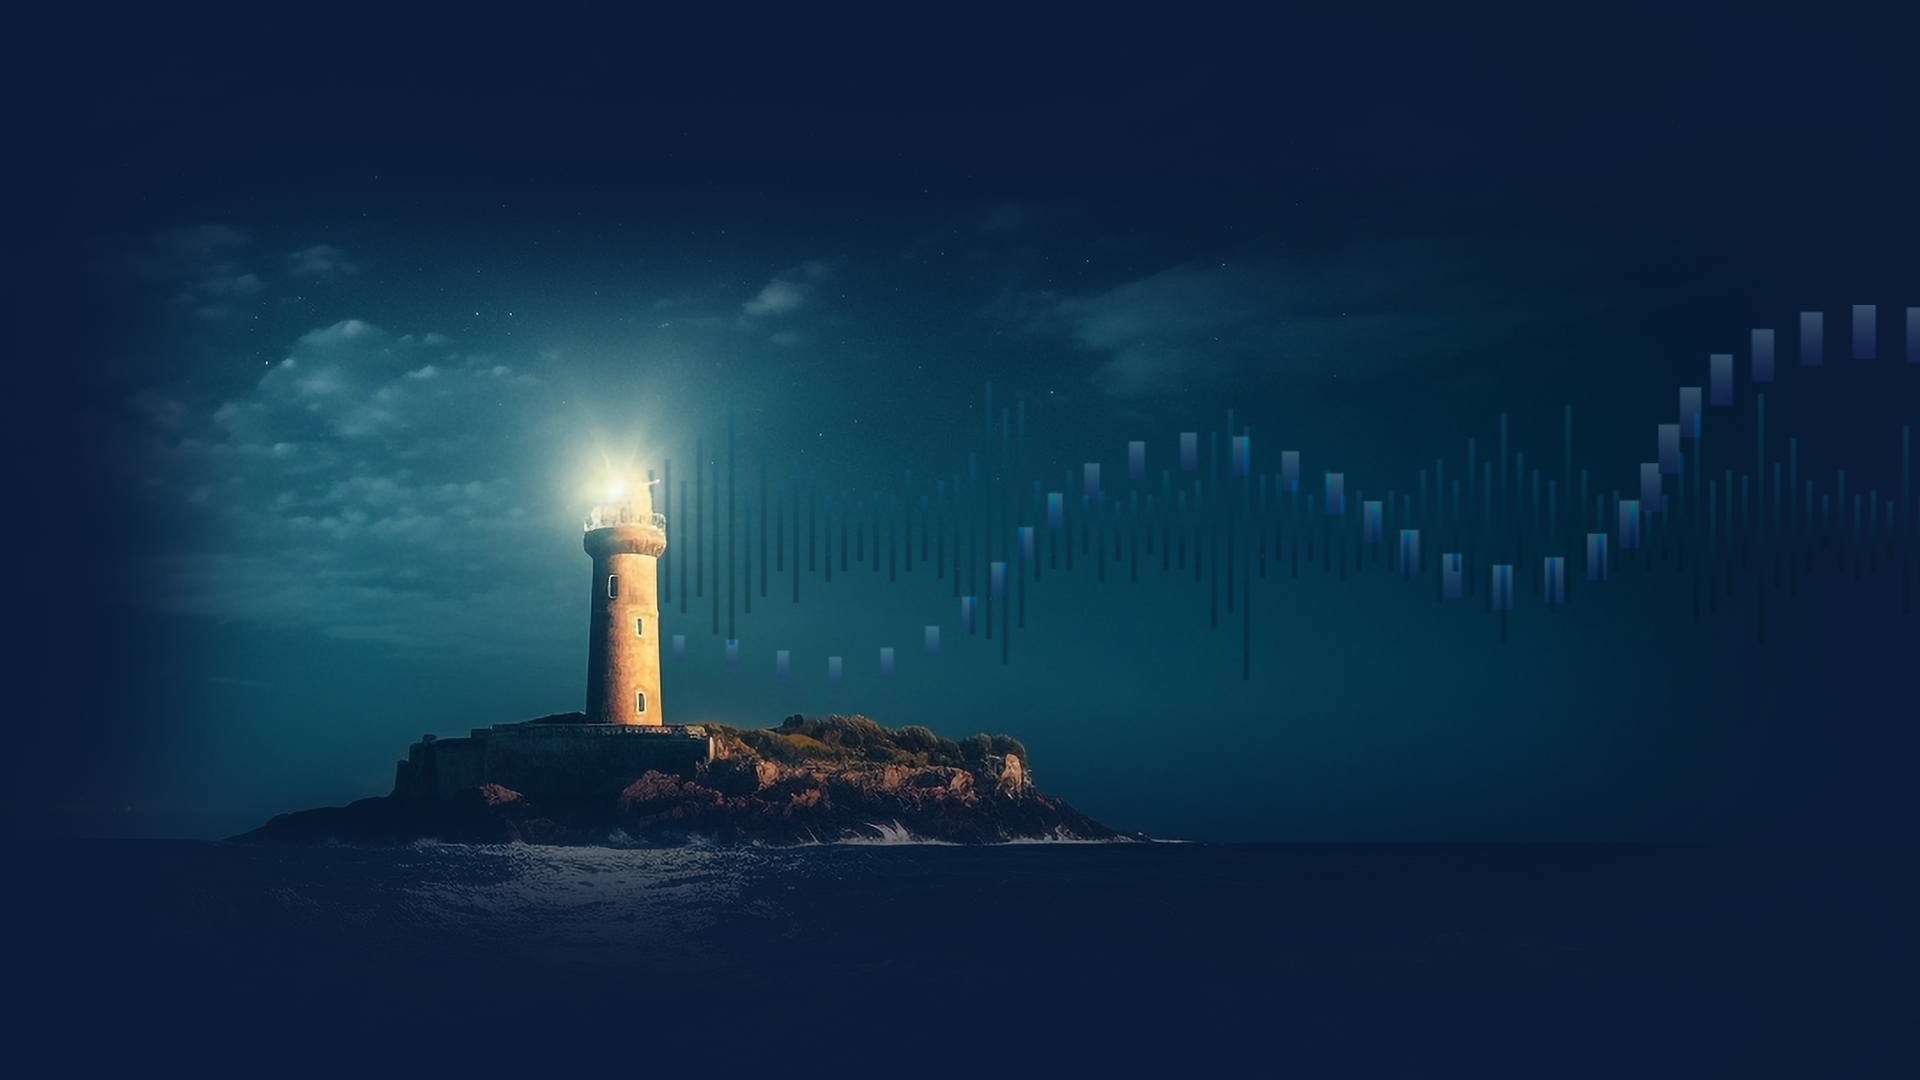
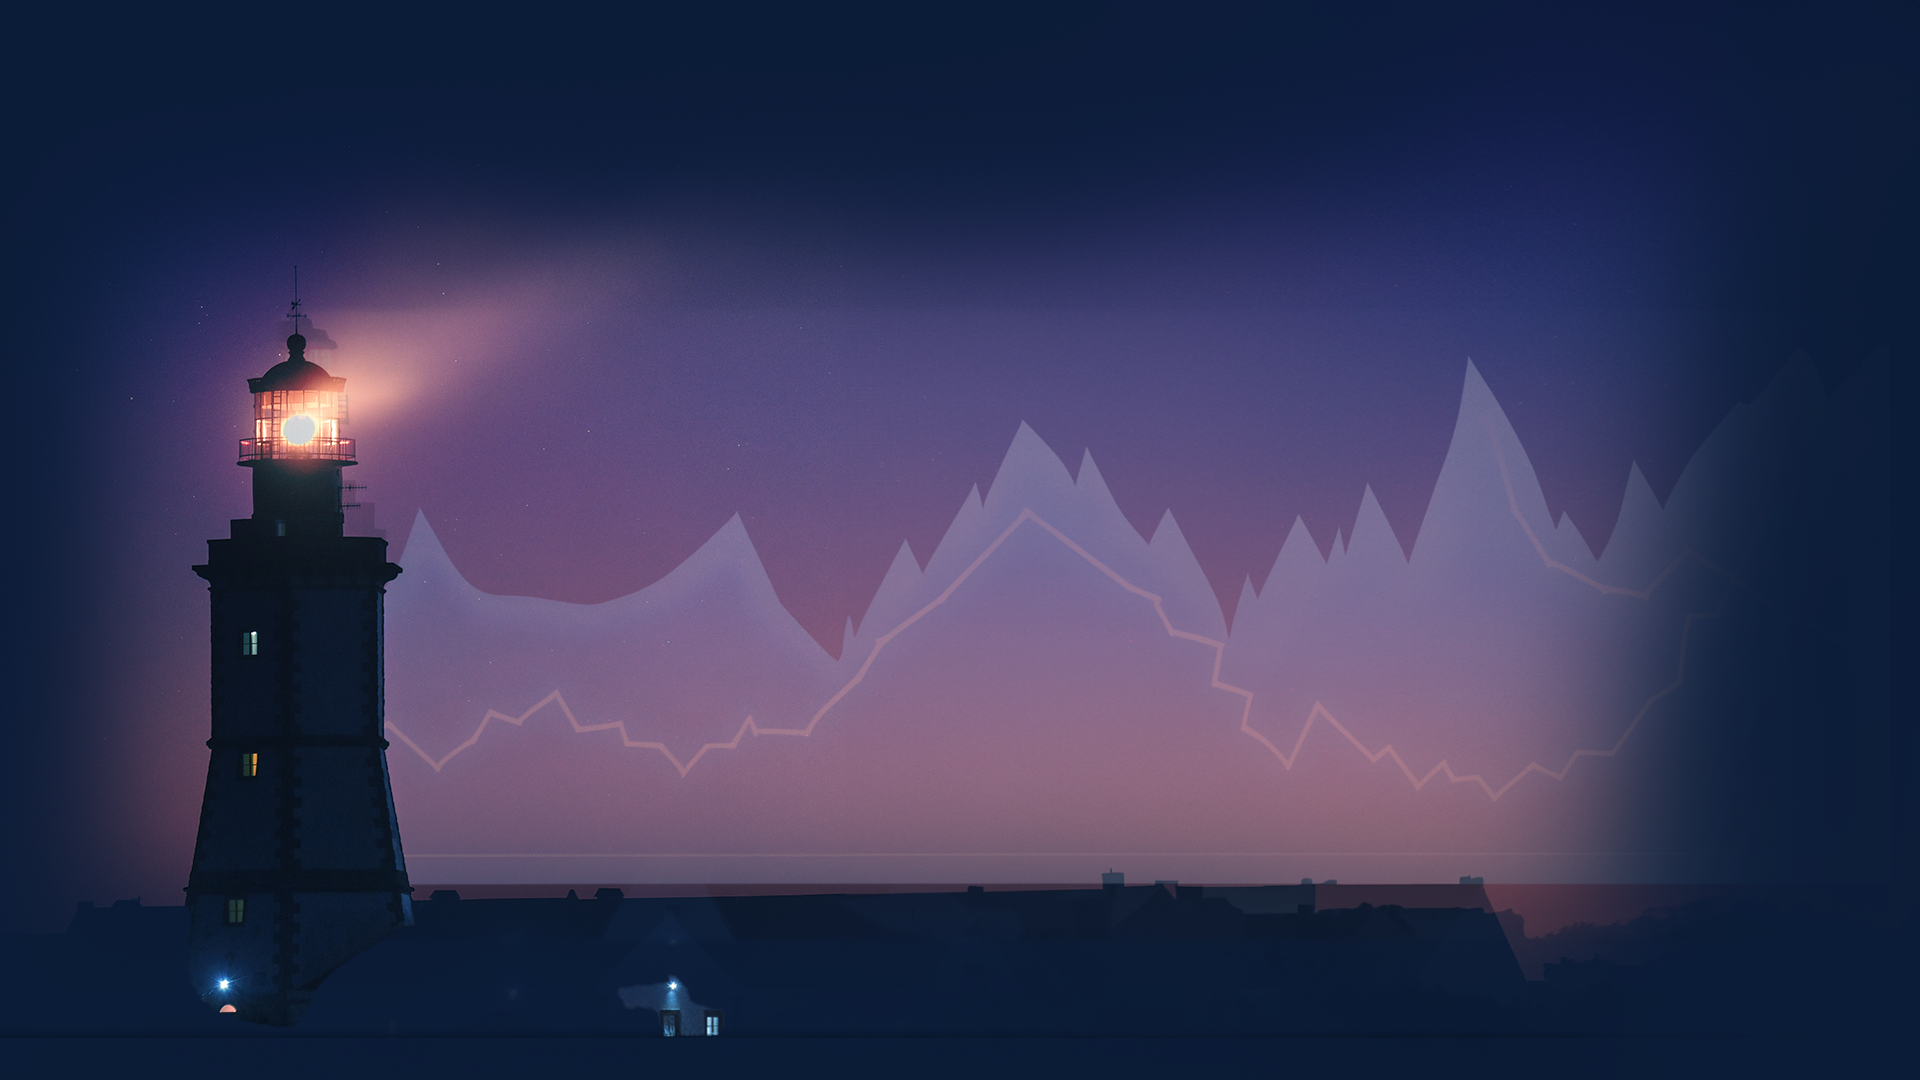
added carousel to the landing page

diff --git a/lighthouse-front/src/components/LighthousePhilosophySession/index.tsx b/lighthouse-front/src/components/LighthousePhilosophySession/index.tsx
@@ -1,23 +1,164 @@
-import React from "react";
-import Button from "../Button/index";
-import { Wrapper, Filter, CardContainer, DescriptionContainer } from "./styles";
+import React, { useEffect, useState } from "react";
+import "react-responsive-carousel/lib/styles/carousel.min.css";
+import { Carousel } from "react-responsive-carousel";
+import {
+  CardContainer0,
+  CardContainer1,
+  CardContainer1Description,
+  CardContainer1Title,
+  CardContainer1TitleLighthouse,
+  CardContainer1TitleSub,
+  CardContainer2,
+  CardContainer2SubDescription,
+  CardContainer2SubTitle,
+  CardContainer2Title,
+  CardContainer2TitleSub,
+  CardContainer3,
+  CardContainer3SubDescription,
+  CardContainer3Title,
+  CardContainer3TitleSub,
+  DescriptionContainer0,
+  LightHouseSpan,
+  Wrapper,
+} from "./styles";
+import Button from "../Button";
 
-const LighthousePhilosophySession = () => (
-  <Wrapper>
-    <Filter />
+export default function MyCarousel() {
+  const [selectedIndex, setSelectedIndex] = useState(0);
 
-    <CardContainer>
-      <DescriptionContainer>
-        Inspirado em um Farol, LIGHTHOUSE foi desenvolvida sobre uma sólida base
-        de conhecimentos. Sobre esta, um sofisticado sistema de orientação,
-        fundamentado em algorítmos, permite aos investidores alcançarem seus
-        objetivos de rentabilidade com simplicidade segurança.
-      </DescriptionContainer>
-      <Button type="secondary" height={66} width={"35%"} minWidth={540}>
-        CONHEÇA NOSSA FILOSOFIA{" "}
-      </Button>
-    </CardContainer>
-  </Wrapper>
-);
+  const next = () => {
+    if (selectedIndex === 3) {
+      setSelectedIndex(0);
+    } else setSelectedIndex(selectedIndex + 1);
+  };
 
-export default LighthousePhilosophySession;
+  const prev = () => {
+    if (selectedIndex > 0) {
+      setSelectedIndex(selectedIndex - 1);
+    }
+  };
+
+  return (
+    <Carousel
+      showArrows={false}
+      selectedItem={selectedIndex}
+      showThumbs={false}
+      showStatus={false}
+      showIndicators={false}
+      swipeable={false}
+      dynamicHeight={true}
+    >
+      <Wrapper containerIndex={0}>
+        <CardContainer0>
+          <DescriptionContainer0>
+            Inspirado em um Farol, <LightHouseSpan>LIGHTHOUSE</LightHouseSpan>{" "}
+            foi desenvolvida sobre uma sólida base de conhecimentos. Sobre esta,
+            um sofisticado sistema de orientação, fundamentado em algorítmos,
+            permite aos investidores alcançarem seus objetivos de rentabilidade
+            com simplicidade segurança.
+          </DescriptionContainer0>
+          <Button
+            onClick={next}
+            type="secondary"
+            height={66}
+            width={"35%"}
+            minWidth={300}
+          >
+            CONHEÇA NOSSA FILOSOFIA
+          </Button>
+        </CardContainer0>
+      </Wrapper>
+      <Wrapper containerIndex={1}>
+        <CardContainer1>
+          <CardContainer1Title>PROTEGENDO SEU PATRIMÔNIO</CardContainer1Title>
+          <CardContainer1TitleSub>
+            Proteção é o fundamento do método
+          </CardContainer1TitleSub>
+          <CardContainer1TitleLighthouse>
+            LIGHTHOUSE
+          </CardContainer1TitleLighthouse>
+          <CardContainer1Description>
+            A harmoniosa análise das regras tributárias e a combinação de
+            jurisdição dos ativos formarão o alicerce do seu portfólio de
+            investimentos, protegendo seu patrimônio de fatores econômicos e
+            políticos da economia brasileira e de tributações excessivas.
+          </CardContainer1Description>
+          <Button
+            onClick={next}
+            type="secondary"
+            height={66}
+            width={"35%"}
+            minWidth={300}
+          >
+            Next
+          </Button>
+        </CardContainer1>
+      </Wrapper>
+      <Wrapper containerIndex={2}>
+        <CardContainer2>
+          <CardContainer2Title>ESCLARECENDO SUAS DECISÕES</CardContainer2Title>
+          <CardContainer2TitleSub>
+            Uma metodologia comprovada nas escolhas de ativos
+            <br />
+            EM DIVERSOS CENÁRIOS ECONÔMICOS
+          </CardContainer2TitleSub>
+          <CardContainer2SubTitle>
+            ANÁLISE MACROECONÔMICA
+          </CardContainer2SubTitle>
+          <CardContainer2SubDescription>
+            Projeção de cenários macro econômicos , onde fatores como inflação e
+            crescimento são ponderados para antecipar as potenciais direções de
+            mercado
+          </CardContainer2SubDescription>
+          <CardContainer2SubTitle>ANÁLISE QUANTITATIVA</CardContainer2SubTitle>
+          <CardContainer2SubDescription>
+            Escolhas de ativos que historicamente tem performance superior nos
+            cenários projetados
+          </CardContainer2SubDescription>
+          <div>
+            <button onClick={prev}>prev</button>
+            <button onClick={next}>next</button>
+          </div>
+        </CardContainer2>
+      </Wrapper>
+      <Wrapper containerIndex={3}>
+        <CardContainer3>
+          <CardContainer3Title>
+            DIRECIONANDO SEUS INVESTIMENTOS
+          </CardContainer3Title>
+          <CardContainer3TitleSub>
+            Saber quando e a que preço investir é essencial para a
+            rentabilidade.
+          </CardContainer3TitleSub>
+          <CardContainer3SubDescription>
+            A Sinergia de 3 algoritmos entregará ao investidor as informações
+            fundamentais para o sucesso do investimento:
+          </CardContainer3SubDescription>
+          <div>
+            <CardContainer3SubDescription>
+              O primeiro identifica alterações estruturais de mercado
+              sinalizando as transições da tendencia dos preços
+            </CardContainer3SubDescription>
+            <CardContainer3SubDescription>
+              O segundo capta os ciclos de volatilidade associadas a cada etapa
+              estrutural do Mercado, projetando valores futuros
+            </CardContainer3SubDescription>
+            <CardContainer3SubDescription>
+              O terceiro seleciona a melhor estratégia de compra e venda de
+              ativos associadas aos ciclos de volatilidade e suas fases
+            </CardContainer3SubDescription>
+            <Button
+              onClick={next}
+              type="secondary"
+              height={66}
+              width={"35%"}
+              minWidth={300}
+            >
+              AGENDAR CONSULTORIA
+            </Button>
+          </div>
+        </CardContainer3>
+      </Wrapper>
+    </Carousel>
+  );
+}

diff --git a/lighthouse-front/src/components/LighthousePhilosophySession/styles.ts b/lighthouse-front/src/components/LighthousePhilosophySession/styles.ts
@@ -1,8 +1,17 @@
+import { constants } from "buffer";
 import styled from "styled-components";
 
-export const Wrapper = styled.div`
+interface WrapperProps {
+  containerIndex?: number;
+}
+
+export const Wrapper = styled.div<WrapperProps>`
   min-height: 700px;
-  background: transparent url("/FILOSOFIA.png") 0% 0% no-repeat padding-box;
+  height: fit-content;
+  background: ${({ containerIndex }) =>
+    `transparent url("/FILOSOFIA${
+      containerIndex || 0
+    }.png") 0% 0% no-repeat padding-box`};
   opacity: 1;
   background-size: cover;
   width: 100vw;
@@ -37,7 +46,7 @@ export const Filter = styled.div`
   opacity: 1;
 `;
 
-export const CardContainer = styled.div`
+export const CardContainer0 = styled.div`
   width: 45%;
   height: auto;
   display: flex;
@@ -52,10 +61,155 @@ export const CardContainer = styled.div`
   }
 `;
 
-export const DescriptionContainer = styled.p`
+export const LightHouseSpan = styled.span`
+  color: #dbc68f;
+`;
+
+export const DescriptionContainer0 = styled.p`
   text-align: left;
   font: normal normal normal 32px Times New Roman;
   letter-spacing: 0px;
   color: #ffffff;
   z-index: 999;
+`;
+
+export const CardContainer1 = styled.div`
+  width: 45%;
+  height: auto;
+  display: flex;
+  flex-direction: column;
+  align-items: flex-start;
+  justify-content: center;
+  margin-right: 200px;
+  @media (max-width: 1350px) {
+    width: 80%;
+    height: 50%;
+    margin-left: -0px;
+  }
+`;
+
+export const CardContainer1Title = styled.h1`
+  text-align: left;
+  font: normal normal normal 42px Aboreto;
+  letter-spacing: 0px;
+  color: #dbc68f;
+  opacity: 1;
+  margin: 0;
+`;
+
+export const CardContainer1TitleSub = styled.p`
+  font: normal normal normal 32px Times New Roman;
+  letter-spacing: 0px;
+  color: #ffffff;
+  margin-bottom: 0px;
+`;
+
+export const CardContainer1TitleLighthouse = styled.p`
+  text-align: left;
+  font: normal normal normal 88px/102px Aboreto;
+  letter-spacing: 0px;
+  color: #ffffff;
+  border-bottom: 2px solid #dbc68f;
+  margin-top: 0;
+  margin-bottom: 26px;
+`;
+
+export const CardContainer1Description = styled.p`
+  text-align: left;
+  font: normal normal normal 22px Times New Roman;
+  letter-spacing: 0px;
+  color: #ffffff;
+  opacity: 1;
+`;
+
+export const CardContainer2 = styled.div`
+  width: 45%;
+  height: auto;
+  display: flex;
+  flex-direction: column;
+  align-items: flex-start;
+  justify-content: center;
+  margin-right: 200px;
+  @media (max-width: 1350px) {
+    width: 80%;
+    height: 50%;
+    margin-left: -0px;
+  }
+`;
+
+export const CardContainer2Title = styled.h1`
+  text-align: left;
+  font: normal normal normal 42px Aboreto;
+  letter-spacing: 0px;
+  color: #dbc68f;
+  opacity: 1;
+  margin: 0;
+`;
+
+export const CardContainer2TitleSub = styled.p`
+  text-align: center;
+  font: normal normal normal 32px Times New Roman;
+  letter-spacing: 0px;
+  color: #ffffff;
+  opacity: 1;
+  margin-bottom: 50px;
+`;
+
+export const CardContainer2SubTitle = styled.h2`
+  text-align: left;
+  font: normal normal bold 26px Marine;
+  letter-spacing: 0px;
+  color: #efc88b;
+  opacity: 1;
+  margin-bottom: 0;
+`;
+
+export const CardContainer2SubDescription = styled.p`
+  text-align: left;
+  font: normal normal normal 22px Times New Roman;
+  letter-spacing: 0px;
+  color: #ffffff;
+  text-transform: lowercase;
+  opacity: 1;
+`;
+
+export const CardContainer3 = styled.div`
+  width: 45%;
+  height: auto;
+  display: flex;
+  flex-direction: column;
+  align-items: flex-start;
+  justify-content: center;
+  margin-right: 200px;
+  @media (max-width: 1350px) {
+    width: 80%;
+    height: 50%;
+    margin-left: -0px;
+  }
+`;
+
+export const CardContainer3Title = styled.h1`
+  text-align: left;
+  font: normal normal normal 32px Aboreto;
+  letter-spacing: 0px;
+  color: #dbc68f;
+  opacity: 1;
+  margin: 0;
+`;
+
+export const CardContainer3TitleSub = styled.p`
+  text-align: left;
+  font: normal normal normal 22px Marine;
+  letter-spacing: 0px;
+  color: #ffffff;
+  opacity: 1;
+  margin-bottom: 30px;
+`;
+
+export const CardContainer3SubDescription = styled.p`
+  text-align: left;
+  font: normal normal normal 22px Times New Roman;
+  letter-spacing: 0px;
+  color: #ffffff;
+  opacity: 1;
 `;

diff --git a/lighthouse-front/src/components/Button/index.tsx b/lighthouse-front/src/components/Button/index.tsx
@@ -9,6 +9,7 @@ interface ButtonProps {
   height?: number | string;
   width?: number | string;
   minWidth?: number | string;
+  onClick?: () => void;
 }
 
 const Button: React.FC<ButtonProps> = ({
@@ -17,6 +18,7 @@ const Button: React.FC<ButtonProps> = ({
   height,
   width,
   minWidth,
+  onClick,
 }) => {
   const colors = {
     primary: "#0b1c38",
@@ -69,6 +71,7 @@ const Button: React.FC<ButtonProps> = ({
         width,
         minWidth: minWidth,
       }}
+      onClick={onClick}
     >
       {children}
     </ButtonContainer>
